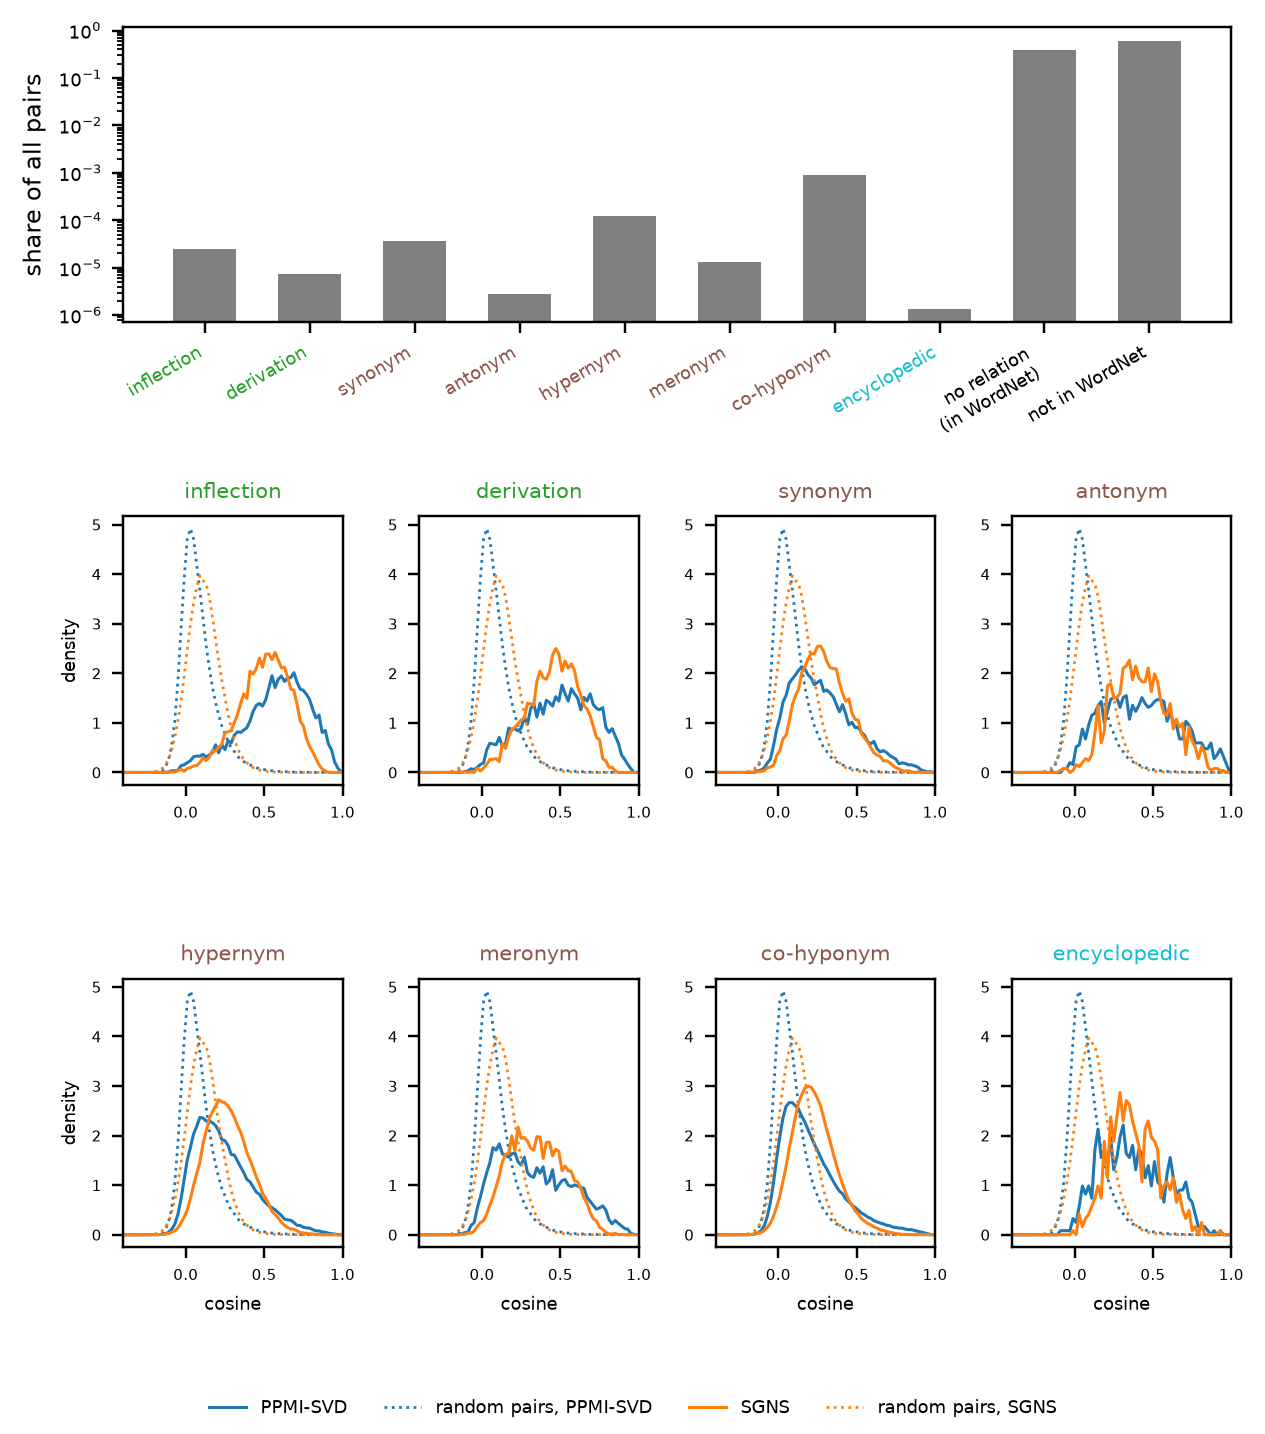
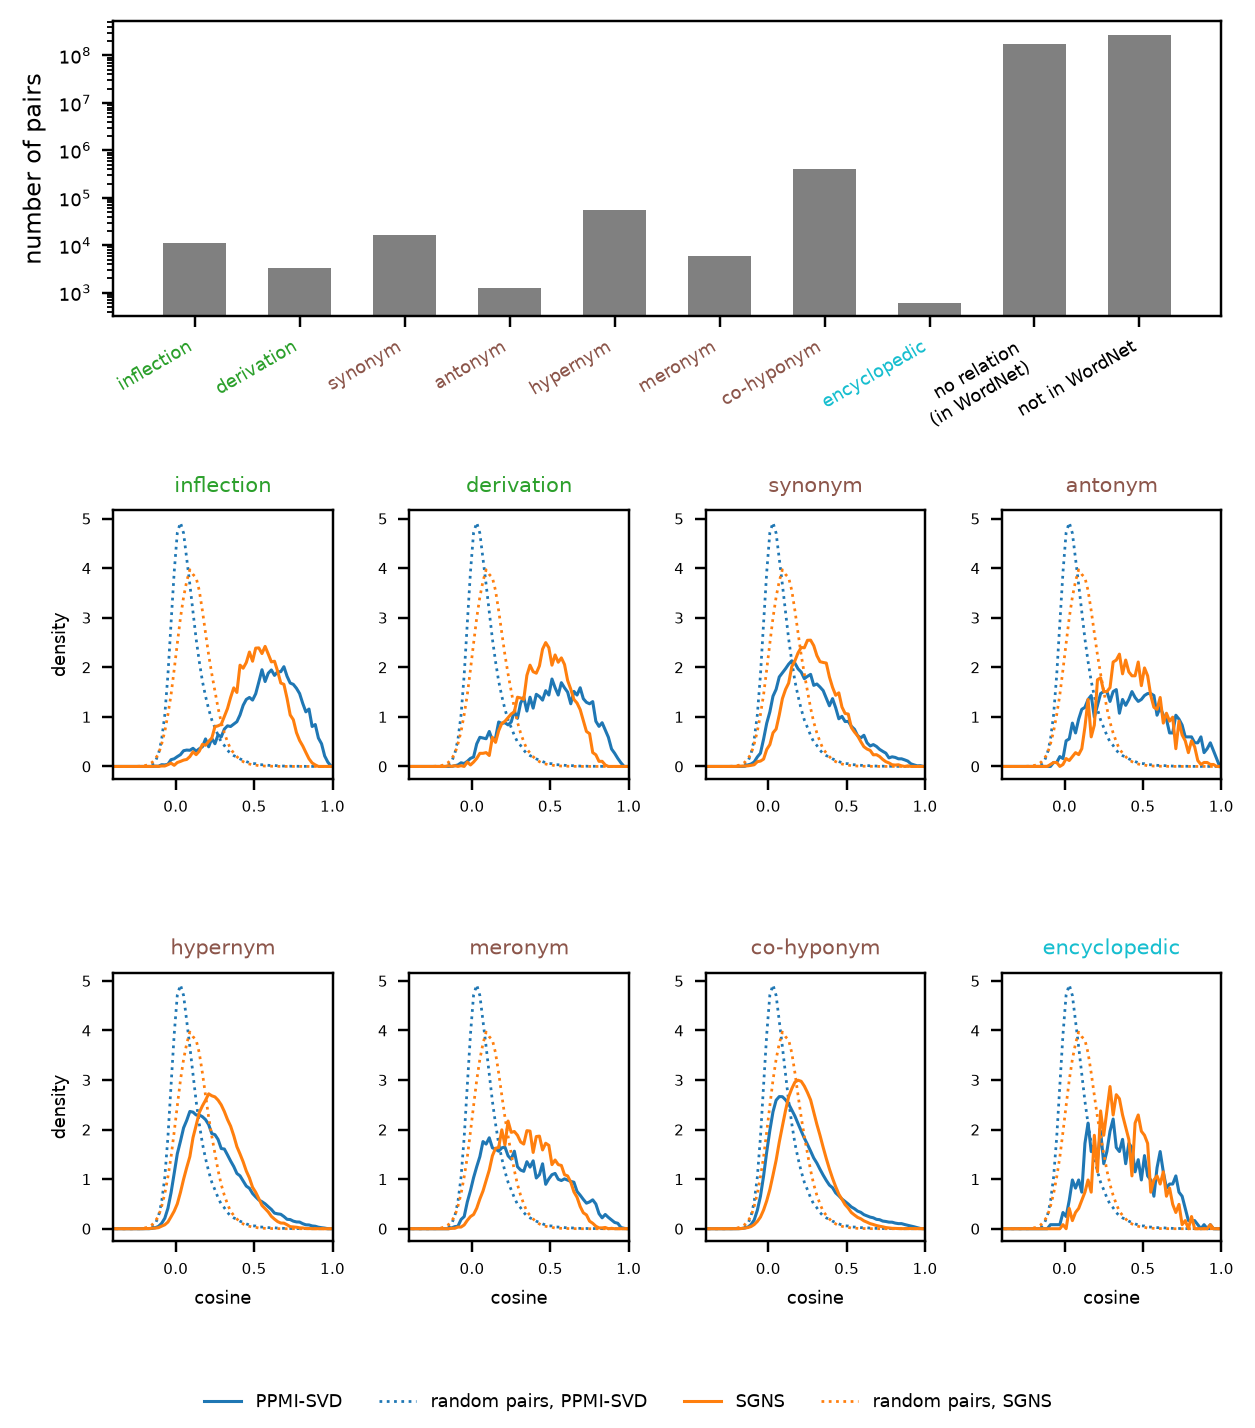
Update meaning_as_likeness.qmd and relation_collapse_figures.py for clarity; modify figure labels and update relation_collapse_inventory.png

diff --git a/code/meaning_as_likeness/relation_collapse_figures.py b/code/meaning_as_likeness/relation_collapse_figures.py
@@ -80,16 +80,16 @@ def against_neither(results: dict) -> None:
 
 
 def inventory(all_pairs: dict, cosines: dict, labels: list[str], relations: list[str], chance: str) -> None:
-    """Test 1: the share of all the pairs of the vocabulary with each label (top, exact counts, logarithmic scale), and for each relation
+    """Test 1: the number of pairs of the vocabulary with each label (top, exact counts, logarithmic scale), and for each relation
     the distribution of the cosine of its pairs in each space (below, solid) against that of random pairs (dotted); a density, so that
     sets of very different sizes can be compared."""
     spaces = list(cosines["spaces"])
     fig = plt.figure(figsize=(6.5, 7.2))
     grid = fig.add_gridspec(3, 4, height_ratios=[1.1, 1, 1], hspace=0.7, wspace=0.35)
     top = fig.add_subplot(grid[0, :])
-    top.bar(range(len(labels)), [all_pairs["labels"][label] / all_pairs["pairs"] for label in labels], 0.6, color="grey")
+    top.bar(range(len(labels)), [all_pairs["labels"][label] for label in labels], 0.6, color="grey")
     top.set_yscale("log")
-    top.set_ylabel("share of all pairs", fontsize=8)
+    top.set_ylabel("number of pairs", fontsize=8)
     top.set_xticks(range(len(labels)), [l.replace(" (", "\n(") for l in labels], fontsize=6, rotation=30, ha="right")
     top.tick_params(axis="y", labelsize=6)
     color_ticks(top.get_xticklabels())
